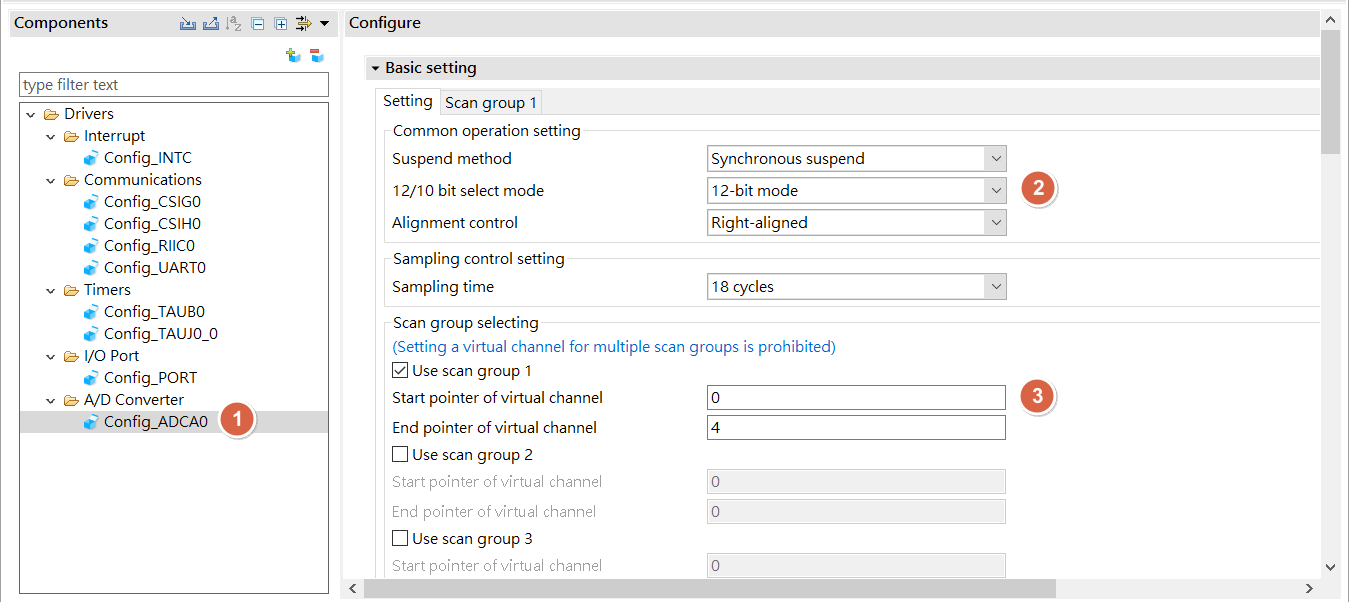
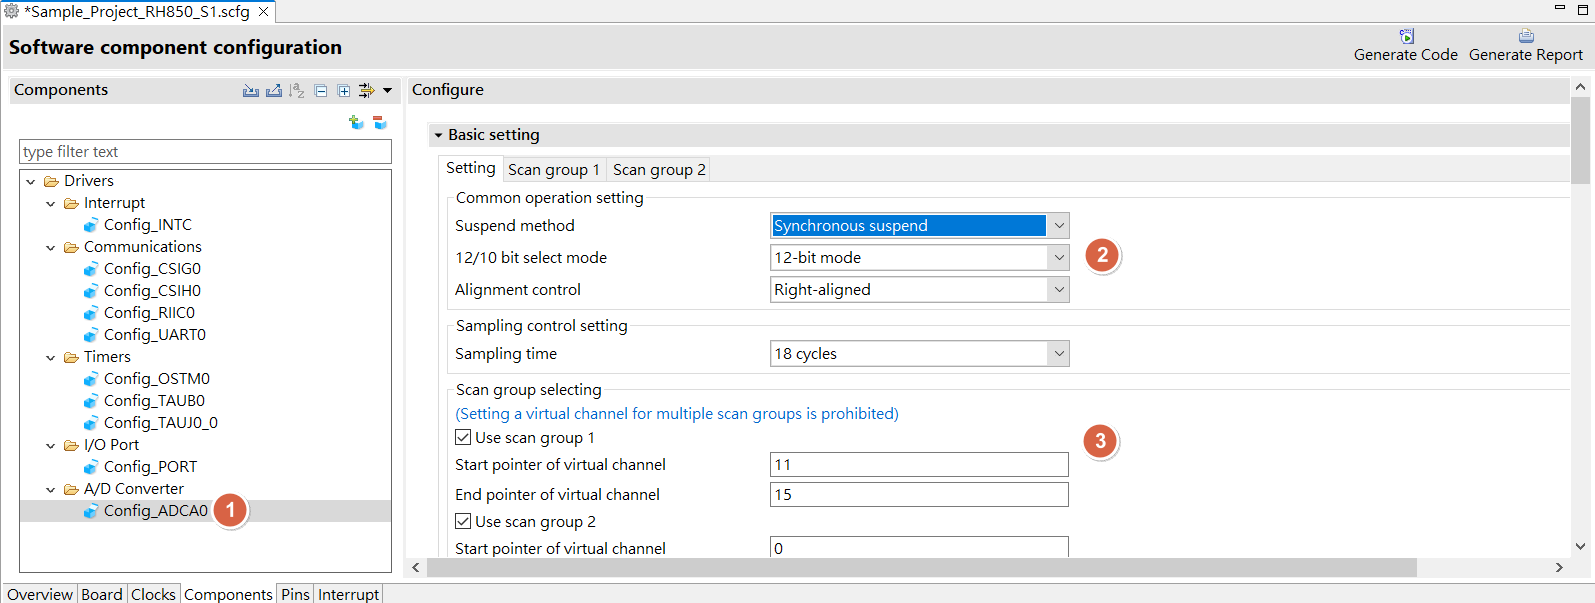
update
update

Changed region(s): [[0.0, 0.0, 1.0, 1.0], [0.7472, 0.6279, 0.7784, 0.6877]]

diff --git a/index.html b/index.html
@@ -493,6 +493,11 @@ Need to manual add driver start API , ex : <br><br>
 <p><u>RH850 Smart Configurator User's Guide: CS+</u><br>
 <a href="#article_top">back to top</a></p>
 <hr>
+<h1 id="smart-config--uart0-printf-sample-code">Smart Config. – UART0 printf sample code </h1>
+<p><a href="https://github.com/released/Sample_Project_RH850_S1_UART_printf">Sample_Project_RH850_S1_UART_printf</a></p>
+<p><u>RH850 Smart Configurator User's Guide: CS+</u><br>
+<a href="#article_top">back to top</a></p>
+<hr>
 <p><a id="article_pwm" href=""></a></p>
 <h1 id="smart-config--pwm">Smart Config. – PWM </h1>
 <p><img src="img/slide_extend_RH850128.png" alt=""></p>
@@ -545,11 +550,16 @@ Need to manual add driver start API , ex : <br><br>
 <p><img src="img/slide_extend_RH850145.png" alt=""></p>
 <p><img src="img/slide_extend_RH850146.png" alt=""></p>
 <p><img src="img/slide_extend_RH850149.png" alt=""></p>
-<p><img src="img/slide_extend_RH850147.png" alt=""></p>
+<p><img src="img/slide_extend_RH850147_1.png" alt=""></p>
+<p><img src="img/slide_extend_RH850147_2.png" alt=""></p>
+<p><img src="img/slide_extend_RH850147_3.png" alt=""></p>
+<p><img src="img/slide_extend_RH850147_4.png" alt=""></p>
+<p><a href="https://github.com/released/Sample_Project_RH850_S1_ADC_MultiCh">Sample_Project_RH850_S1_ADC_MultiCh</a></p>
 <span style="color:#FF0000">
 Need to manual add driver start API , ex : <br><br>
 </span>
 <pre data-role="codeBlock" data-info="" class="language-text"><code>R_Config_ADCA0_ScanGroup1_Start();
+R_Config_ADCA0_ScanGroup1_OperationOn();
 </code></pre><p><img src="img/slide_extend_RH850148.png" alt=""></p>
 <p><u>RH850 Smart Configurator User's Guide: CS+</u><br>
 <a href="#article_top">back to top</a></p>
@@ -888,6 +898,18 @@ Use [<b> Build Mode Setting </b>] , to split different macro in different projec
 <p>Add the macro define for extra project<br>
 <img src="img/slide_extend_RH850218.png" alt=""></p>
 <p><u>CC-RH Compiler User's Manual</u><br>
+<a href="#article_top">back to top</a></p>
+<hr>
+<h1 id="tips--add-global-variable-into-watch-window-with-real-time-update">Tips : add global variable into watch window with real time update </h1>
+<span style="color:#FF0000">
+enable [<b>Access during the execution</b>] at Debugger Property &gt; Debug Tool Settings tab<br>
+</span>
+<p><img src="img/RH850_watch_window_update.png" alt=""></p>
+<span style="color:#FF0000">
+Add global variable into watch window , by [<b>Register to Watch1</b>] and verify the variable in window<br>
+</span>
+<p><img src="img/RH850_watch_window_update2.png" alt=""></p>
+<p><u>CC-RL Compiler User's Manual</u><br>
 <a href="#article_top">back to top</a></p>
 <hr>
 

diff --git a/index.md b/index.md
@@ -770,6 +770,15 @@ R_Config_UART0_Start();
 
 ---
 
+# Smart Config. – UART0 printf sample code
+
+[Sample_Project_RH850_S1_UART_printf](https://github.com/released/Sample_Project_RH850_S1_UART_printf)
+
+<u>RH850 Smart Configurator User's Guide: CS+</u>
+[back to top](#article_top)    
+
+---
+
 <a id="article_pwm"></a>
 
 # Smart Config. – PWM
@@ -869,7 +878,15 @@ R_Config_TAUB0_Start();
 
 ![](img/slide_extend_RH850149.png)
 
-![](img/slide_extend_RH850147.png)
+![](img/slide_extend_RH850147_1.png)
+
+![](img/slide_extend_RH850147_2.png)
+
+![](img/slide_extend_RH850147_3.png)
+
+![](img/slide_extend_RH850147_4.png)
+
+[Sample_Project_RH850_S1_ADC_MultiCh](https://github.com/released/Sample_Project_RH850_S1_ADC_MultiCh)
 
 
 <span style="color:#FF0000">
@@ -878,6 +895,7 @@ Need to manual add driver start API , ex : <br><br>
 
 ```
 R_Config_ADCA0_ScanGroup1_Start();
+R_Config_ADCA0_ScanGroup1_OperationOn();
 ```
 
 ![](img/slide_extend_RH850148.png)
@@ -1358,4 +1376,25 @@ Add the macro define for extra project
 [back to top](#article_top)    
 
 ---
+
+# Tips : add global variable into watch window with real time update
+
+<span style="color:#FF0000">
+enable [<b>Access during the execution</b>] at Debugger Property > Debug Tool Settings tab<br>
+</span>
+
+![](img/RH850_watch_window_update.png)
+
+<span style="color:#FF0000">
+Add global variable into watch window , by [<b>Register to Watch1</b>] and verify the variable in window<br>
+</span>
+
+
+![](img/RH850_watch_window_update2.png)
+
+<u>CC-RL Compiler User's Manual</u>
+[back to top](#article_top)
+
+---
+
 
